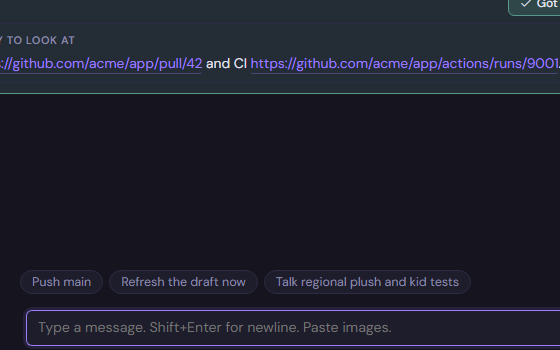
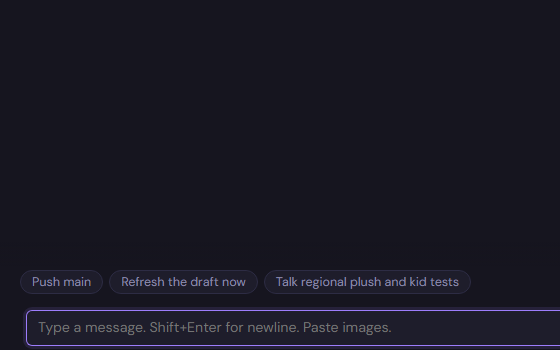
FIX: the 0.2.158 What's new drops the Move into main chat card (it shipped in 0.2.157), the run plan alt names only the Running tag, the sub tabs caption names only what changed, and the chips and idle-chat pictures are cropped to what their captions say

Changed region(s): [[0.0, 0.1429, 1.0, 0.2286], [0.0, 0.0857, 0.1518, 0.1429], [0.8804, 0.0, 1.0, 0.0571]]

diff --git a/e2e/view-harness/changelog-assets.view.spec.ts b/e2e/view-harness/changelog-assets.view.spec.ts
@@ -757,7 +757,7 @@ test.describe("@changelog-assets", () => {
     await only(page, "#sessions-list");
     await page.addStyleTag({ content: "#sessions-list { zoom: 2; }" });
     await page.waitForTimeout(300);
-    await page.screenshot({ path: path.join(IMG, V158, "idle-hidden.png"), clip: { x: 0, y: 50, width: 480, height: 300 } });
+    await page.screenshot({ path: path.join(IMG, V158, "idle-hidden.png"), clip: { x: 0, y: 140, width: 400, height: 250 } });
   });
 
   test("0.2.158 notes card shows calls and corrections", async ({ page }) => {
@@ -818,35 +818,12 @@ test.describe("@changelog-assets", () => {
     await page.evaluate(() => { const m = document.querySelector("#session-pane .cdash-body")!; m.scrollTop = m.scrollHeight; });
     await page.waitForTimeout(600);
     await only(page, "#session-pane");
+    // The Result card above would be cut mid-text by the crop; the picture is about the chips and the message box.
+    await page.locator("#session-pane .cdash-resultcard").evaluate((el) => { (el as HTMLElement).style.display = "none"; });
     // The chips and the message box under them, with the end of the dashboard fading into them.
     const sb = (await page.locator("#session-pane .next-chip-slot").boundingBox())!;
     const shell = (await page.locator("#session-pane .composer-shell").boundingBox())!;
     const cw = 560, ch = cw / RATIO;
     await page.screenshot({ path: path.join(IMG, V158, "chips-whole.png"), clip: { x: shell.x - 20, y: sb.y + 80 - ch, width: cw, height: ch } });
-  });
-
-  test("0.2.158 move into main chat has no picker", async ({ page }) => {
-    const main = sessionInstance({ session_id: "main", name: "CV redesign", pid: 101, cwd: CV, project_id: "p-cv" });
-    const plain = sessionInstance({ session_id: "plain", name: "Footer idea", pid: 102, cwd: CV, project_id: "p-cv" });
-    const events = [userMsg("what should the footer hold"), assistantMsg("Links, a contact line and the year.")];
-    await page.setViewportSize({ width: 1280, height: 800 });
-    await mountView(page, {
-      view: "sessions",
-      invoke: {
-        ...SESSIONS_BASE_INVOKE,
-        list_instances: [main, plain], get_active_sessions: [main, plain], list_subchats_on: ["main"], list_pending_prompts: [],
-        list_projects: [{ id: "p-cv", path: CV, name: "cv-site", default_model: null, default_effort: null, main_chat_id: "main" }],
-        get_session_drafts: { composer: null, auq: null, held: [], held_updated_at: null },
-        load_history_page: { events, oldest_seq: 0, newest_seq: events.length, has_more: false },
-        context_status: ctx158, list_slash_commands: [], list_auto_accept: [], confirm_question_rendered: null,
-      },
-    });
-    await page.locator('#sessions-list li[data-session-id="plain"]').click();
-    await page.locator(".session-composer .cc-typing-input").waitFor({ state: "attached" });
-    await openPaletteFor(page, "Move into main chat");
-    await expect(paletteRow(page, "Move into main chat")).toBeVisible();
-    await page.waitForTimeout(500);
-    await only(page, ".cp-overlay .cp");
-    await shoot(page, page.locator(".cp-overlay .cp"), V158, "move-into-main", 50);
   });
 });

diff --git a/src/changelog/entries.ts b/src/changelog/entries.ts
@@ -18,7 +18,6 @@ import subTabs from "./img/0.2.158/sub-tabs.png";
 import attachmentsCard from "./img/0.2.158/attachments-card.png";
 import idleHidden from "./img/0.2.158/idle-hidden.png";
 import waitingOnYou from "./img/0.2.158/waiting-on-you.png";
-import moveIntoMain from "./img/0.2.158/move-into-main.png";
 import notesCard from "./img/0.2.158/notes-card.png";
 import chipsWhole from "./img/0.2.158/chips-whole.png";
 import lightboxGallery from "./img/0.2.157/lightbox-gallery.png";
@@ -62,7 +61,7 @@ export const ENTRIES: ChangelogEntry[] = [
         title: "Run plans start themselves",
         caption: "The main chat holds a run plan, its steps start on their own, and the Plan card shows the lanes and what comes after.",
         image: runPlan,
-        alt: "The Plan card with the chat's own steps on top and a run under them: lane chips, a Blocked or Running tag and a Then row",
+        alt: "The Plan card with the chat's own steps on top and a run under them: lane chips, a Running tag and a Then row",
       },
       {
         icon: "ph-play-circle",
@@ -81,9 +80,9 @@ export const ENTRIES: ChangelogEntry[] = [
       {
         icon: "ph-browsers",
         title: "Look inside a sub",
-        caption: "An opened sub has Plan and Attachments tabs and a message box that sends for real.",
+        caption: "An opened sub has a Plan tab and an Attachments tab with that sub's previews, images, files and links.",
         image: subTabs,
-        alt: "An opened sub card with Plan and Attachments tabs, three image rows and a message box",
+        alt: "An opened sub card on its Attachments tab with three image rows and a message box",
       },
       {
         icon: "ph-paperclip",
@@ -105,13 +104,6 @@ export const ENTRIES: ChangelogEntry[] = [
         caption: "A question you answered, skipped or that can no longer be answered leaves the list.",
         image: waitingOnYou,
         alt: "The Waiting on you card holding one open question, with no answered or skipped ones",
-      },
-      {
-        icon: "ph-arrow-bend-down-right",
-        title: "Move into main chat, no picker",
-        caption: "The menu item moves the chat straight into the project's main chat.",
-        image: moveIntoMain,
-        alt: "The command palette showing the Move into main chat command",
       },
       {
         icon: "ph-note",
